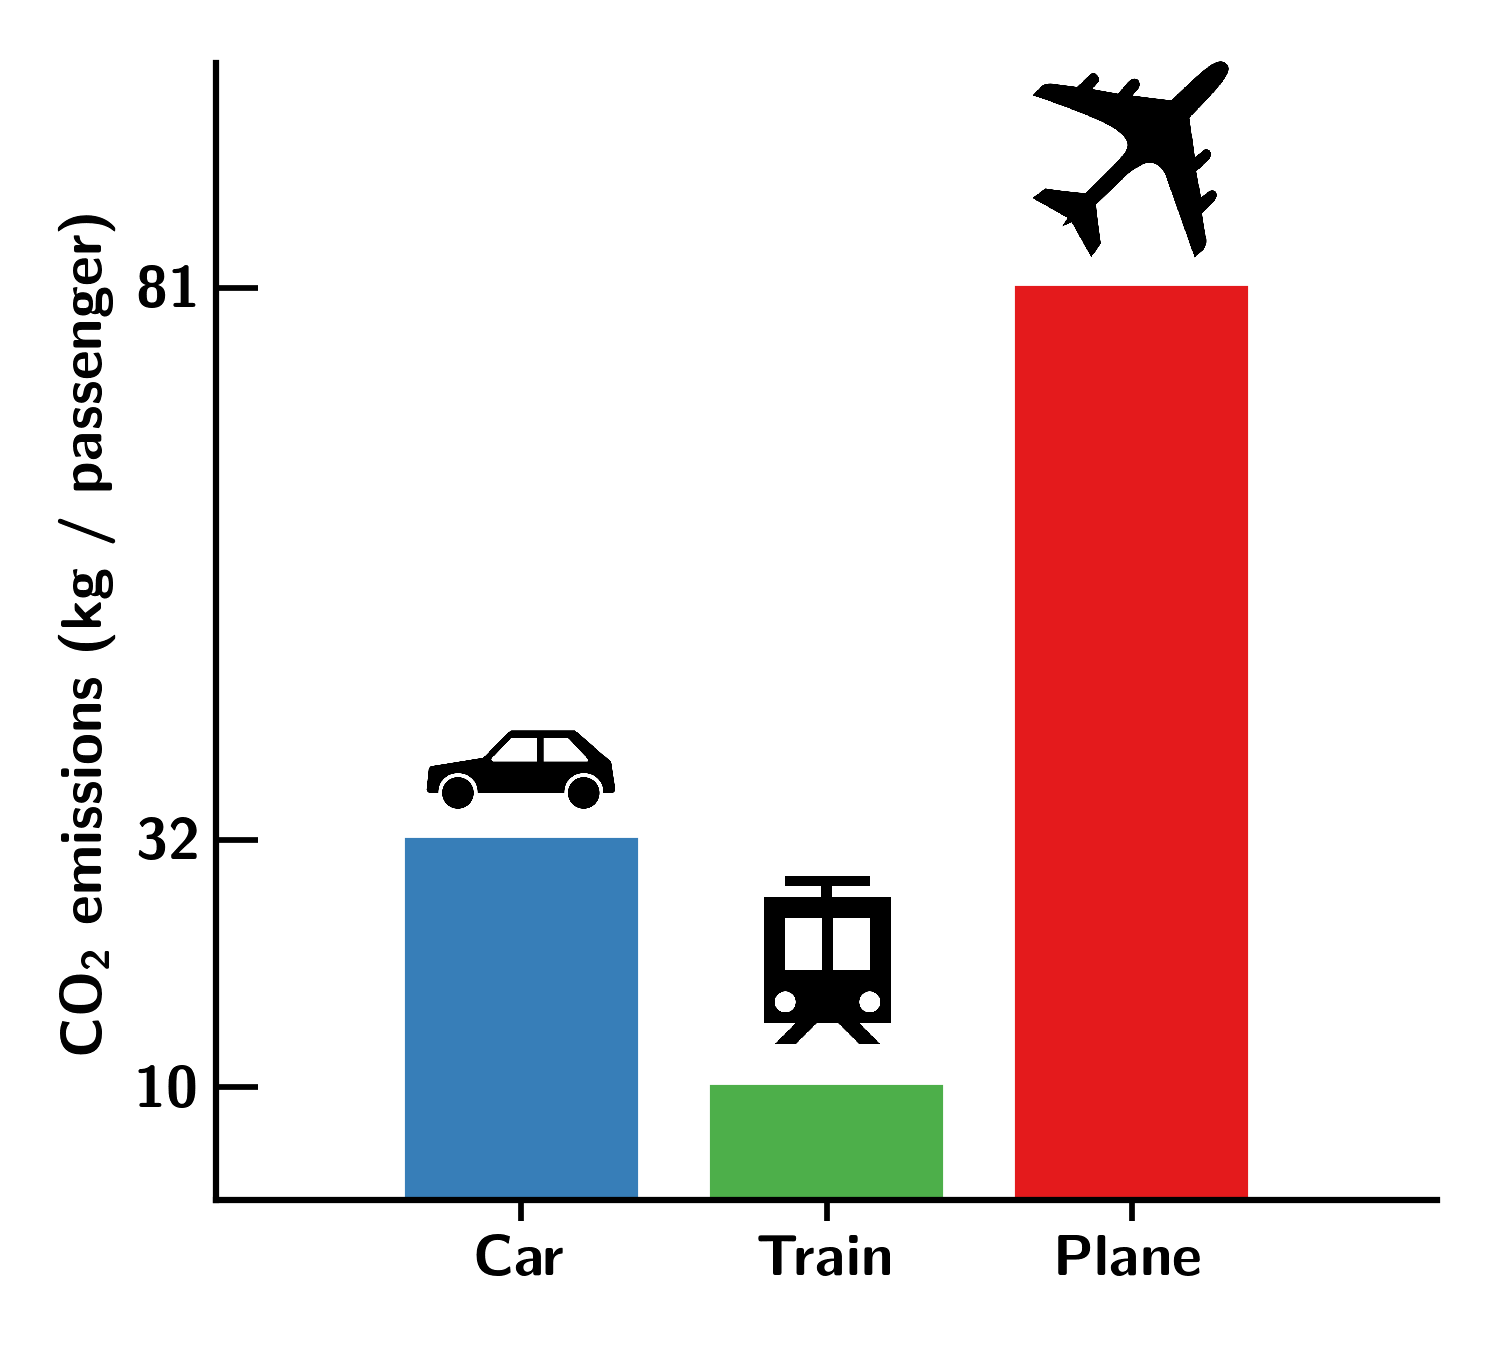
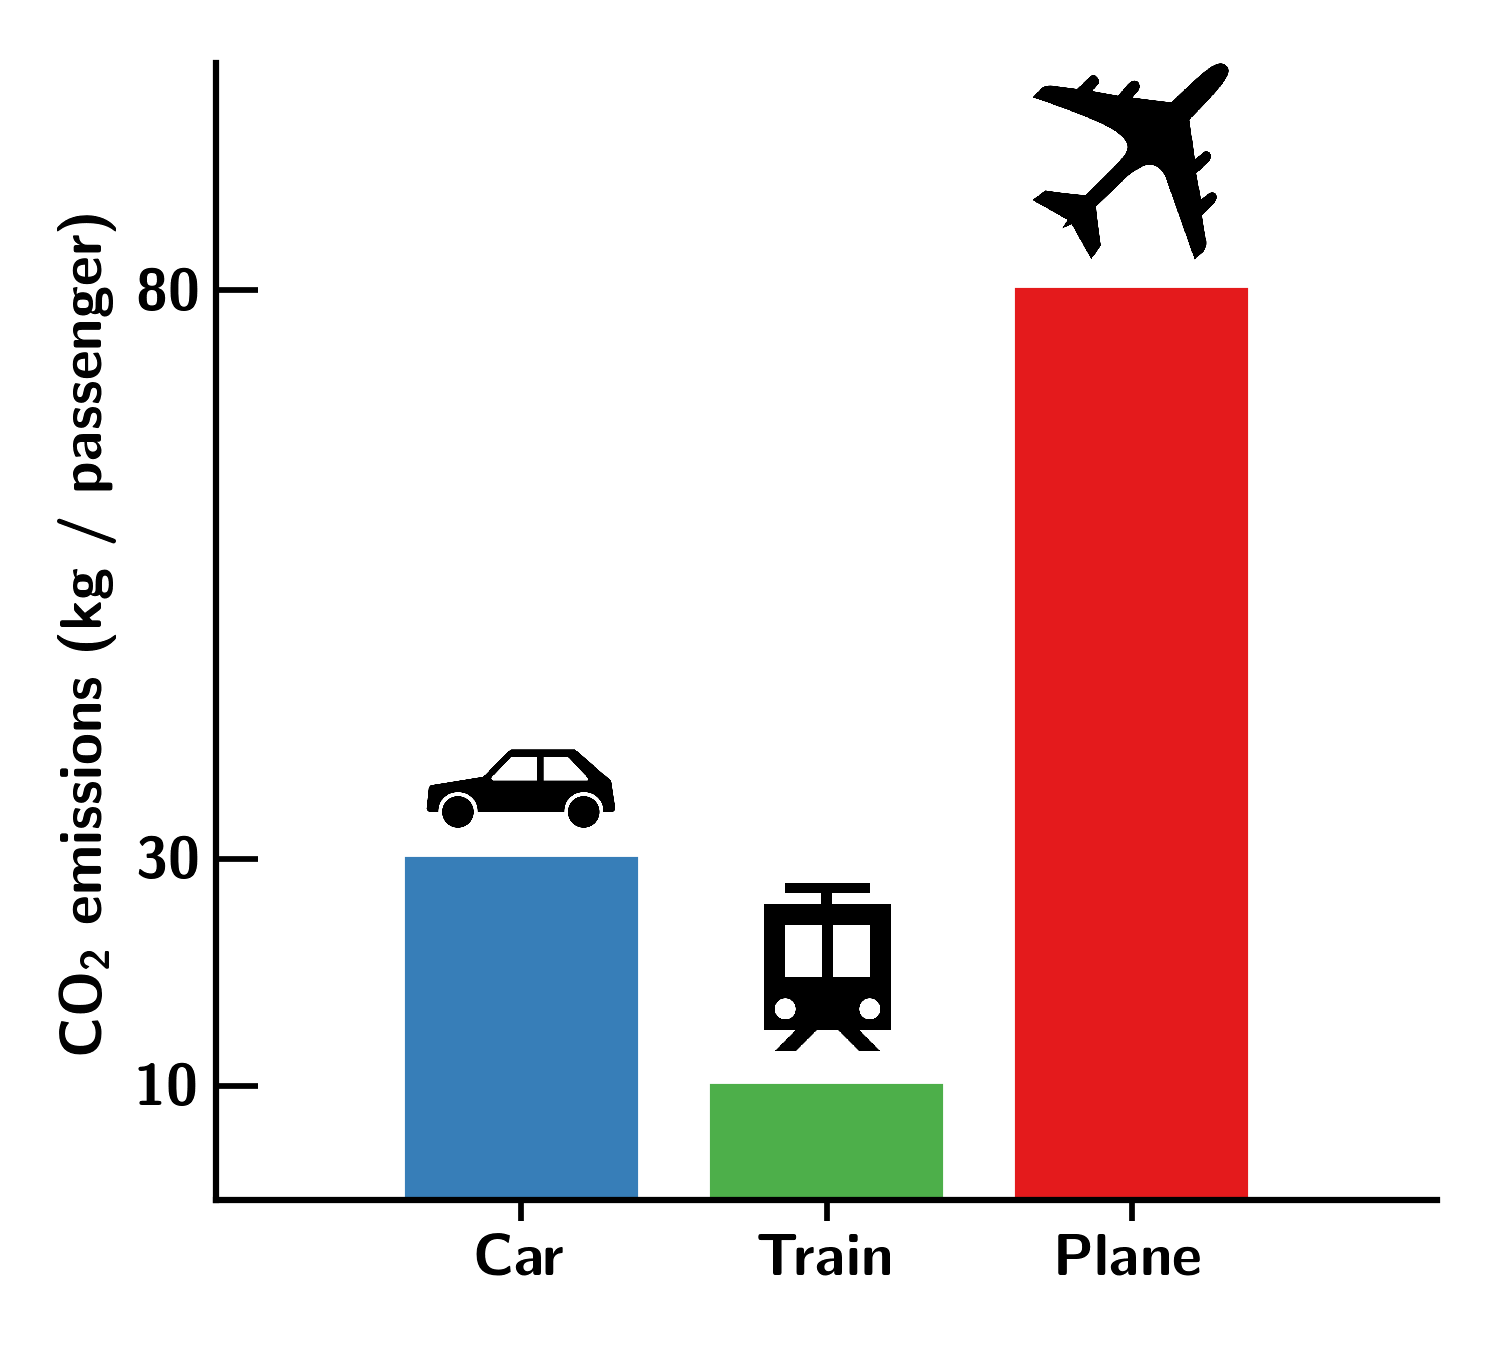
Updated figure for emissions with yticklabels rounded to the nearest 10; modified the text and layout on the home page and references page

diff --git a/references.md b/references.md
@@ -1,56 +1,51 @@
 ---
 layout: page
-title: References
+title: Data and references
 permalink: /references/
 ---
 
 ## Summary
 
-| Vehicle      | Model             | Fuel     | Distance (km) | Consumption <br/> (L / 100 km) | CO<sub>2</sub> (kg / L) | Passengers |
-|--------------|-------------------|----------|---------------|--------------------------------|-------------------------|------------|
-| Car          | Mazda 2           | Petrol   | 1665          | 4.8                            | 1.96                    | 5          |
-| Train        | ---               | Diesel   | 1665          | 51.9                           | 2.24                    | 200        |
-| Plane        | Boeing 737 Max 8  | Jet fuel | 1379          | 454                            | 2.11                    | 166        |
+| Vehicle | Model            | Fuel     | Distance (km) | Consumption <br/> (L / 100 km) | CO<sub>2</sub> (kg / L) | Passengers |
+|---------|------------------|----------|---------------|--------------------------------|-------------------------|------------|
+| Car     | Mazda 2          | Petrol   | 1665          | 4.8                            | 1.96                    | 5          |
+| Train   |                  | Diesel   | 1665          | 51.9                           | 2.24                    | 200        |
+| Plane   | Boeing 737 Max 8 | Jet fuel | 1379          | 454                            | 2.11                    | 166        |
 
+## Distance
 
-## The Trip
+The distance between Melbourne and Brisbane in Australia is:
+* 1665 km by land [[ref.]](https://goo.gl/maps/JEN7ijdqTiybkq168)
+* 1379 km by air [[ref.]](https://www.greatcirclemap.com/?routes=MEL-BNE)
 
-The distance between Melbourne, Victoria, Australia and Brisbane, Queensland, Australia is:
-* 1665 km by land [[ref]](https://goo.gl/maps/JEN7ijdqTiybkq168)
-* 1379 km by air [[ref]](https://www.greatcirclemap.com/?routes=MEL-BNE)
+## Car
 
-
-# Car
-
-We use a 2012 Mazda 2 as a model for travel by car.
-* The car can carry 5 passengers
-  [[ref]](https://en.wikipedia.org/wiki/Mazda_Demio#Third_generation_(DE;_2007%E2%80%932014))
-* The car uses 4.8 L of petrol per 100 km when freeway driving
- [[ref]](https://www.auto-data.net/en/mazda-2-ii-de-facelift-2010-1.5i-102hp-17496)
+Our model for an automobile is a 2012 Mazda 2.
+* The car has a maximum of five passengers
+  [[ref.]](https://en.wikipedia.org/wiki/Mazda_Demio#Third_generation_(DE;_2007%E2%80%932014))
+* The car uses 4.8 L of petrol per 100 km when driving on a freeway
+ [[ref.]](https://www.auto-data.net/en/mazda-2-ii-de-facelift-2010-1.5i-102hp-17496)
 * Burning one litre of petrol creates 1.96 kg of CO<sub>2</sub> 
-  [[ref]](https://www.eia.gov/environment/emissions/co2_vol_mass.php)
+  [[ref.]](https://www.eia.gov/environment/emissions/co2_vol_mass.php)
 
+## Train
 
-# Train
+We take the average consumption of diesel passenger trains in the UK for our model of a locomotive.
 
-We use general consumption for passenger diesel trains rather than a specific model for travel by train. 
-We use the NSW TrainLink XPT train to estimate the number of passengers.
-
-* The train can carry 200 passengers
-  [[ref]](https://transportnsw.info/regional/regional-train-coach-facilities/xpt-regional-trains)
+* A New South Wales XPT can carry at least 200 passengers
+  [[ref.]](https://transportnsw.info/regional/regional-train-coach-facilities/xpt-regional-trains)
 * The train will use 51.9 L of diesel per 100 km
-  [[ref]](https://ora.ox.ac.uk/objects/uuid:cd7d3eb7-e57c-427d-9ec6-70da72389cce/download_file?safe_filename=Are%2Brailways%2Bclimate%2Bfriendly%2B-%2BGivoni%2BBrand%2BWatkiss%2B-%2Baccepted%2Bmanuscript.pdf&file_format=application%2Fpdf&type_of_work=Journal+article)
+  [[ref.]](https://ora.ox.ac.uk/objects/uuid:cd7d3eb7-e57c-427d-9ec6-70da72389cce/download_file?safe_filename=Are%2Brailways%2Bclimate%2Bfriendly%2B-%2BGivoni%2BBrand%2BWatkiss%2B-%2Baccepted%2Bmanuscript.pdf&file_format=application%2Fpdf&type_of_work=Journal+article)
 * Burning one liter of diesel creates 2.24 kg of CO<sub>2</sub>
-  [[ref]](https://www.eia.gov/environment/emissions/co2_vol_mass.php)
-  
+  [[ref.]](https://www.eia.gov/environment/emissions/co2_vol_mass.php)
 
-# Plane
+## Plane
 
-We use a Boeing 737 Max 8 as a model for travel by air.
-* The plane can carry 166 passengers 
-  [[ref]](https://web.archive.org/web/20160206082857/http://airwaysnews.com/blog/2016/02/05/a320neo-vs-737-max-pt-ii/)
+Our model for an aeroplane is a Boeing 737 Max 8.
+* The plane has a seating capacity of 166 passengers 
+  [[ref.]](https://web.archive.org/web/20160206082857/http://airwaysnews.com/blog/2016/02/05/a320neo-vs-737-max-pt-ii/)
 * The plane uses 454 L of jet fuel per 100 km
-  [[ref]](https://web.archive.org/web/20160206082857/http://airwaysnews.com/blog/2016/02/05/a320neo-vs-737-max-pt-ii/)
+  [[ref.]](https://web.archive.org/web/20160206082857/http://airwaysnews.com/blog/2016/02/05/a320neo-vs-737-max-pt-ii/)
 * Burning one litre of jet fuel creates 2.11 kg of CO<sub>2</sub> 
-  [[ref]](https://www.eia.gov/environment/emissions/co2_vol_mass.php)
+  [[ref.]](https://www.eia.gov/environment/emissions/co2_vol_mass.php)
 

diff --git a/index.md b/index.md
@@ -5,7 +5,8 @@
 layout: home
 ---
 
-Here we are posting updates our journey on the train from Melbourne to Brisbane to attend the conference [ICONN2020](https://www.iconn2020.com).
+On this page we will post updates on our rail travel from Melbourne to Brisbane!
+We are travelling to Brisbane to attend [ICONN 2020](https://www.iconn2020.com) - International Conference on Nanoscience and Nanotechnology (9--13 February 2020).
 
 <center>
 <img src="assets/emissions.png" alt="Figure showing the carbon dioxide emissions for car, train, and plane travel from Melbourne to Brisbane" width="500"/>
